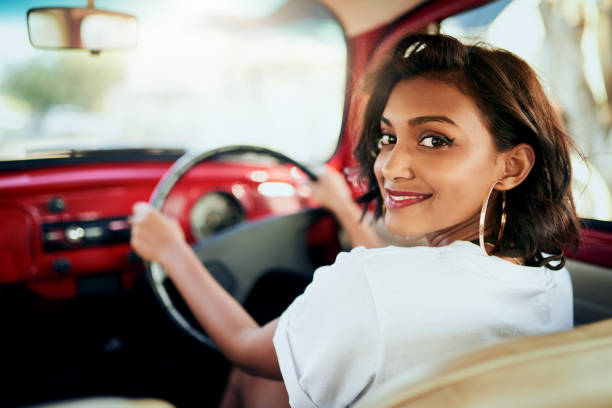
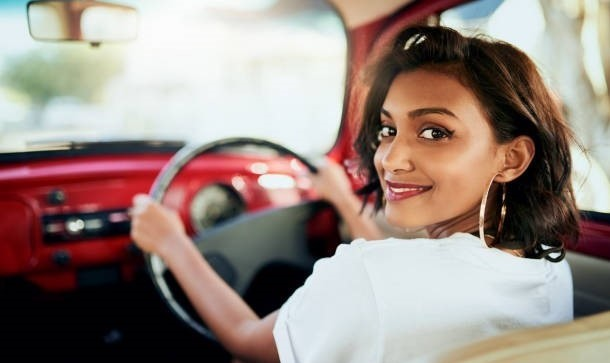
Refactor carousel image styles for responsiveness and cropped images

diff --git a/css/style.css b/css/style.css
@@ -177,26 +177,26 @@
     
     #header-carousel .carousel-item img {
         position: absolute;
-        width: 100%;
-        height: 100%;
-        object-fit: cover;
-    }
-}
-
-/* Styles for larger screens */
-@media (min-width: 769px) {
-    #header-carousel .carousel-item {
-        position: relative;
-        height: 1070px; /* Adjust this value as needed */
-    }
-    
-    #header-carousel .carousel-item img {
-        position: absolute;
         width: 100%; /* Fill the width of the carousel item */
         height: 100%; /* Fill the height of the carousel item */
         object-fit: cover; /* Scale the image to cover the carousel item, cropping if necessary */
     }
 }
+
+/* Styles for larger screens */
+/* @media (min-width: 769px) {
+    #header-carousel .carousel-item {
+        position: relative;
+        height: 1070px;
+    }
+    
+    #header-carousel .carousel-item img {
+        position: absolute;
+        width: 100%;
+        height: 100%;
+        object-fit: cover;
+    }
+} */
 
 .page-header {
     background: linear-gradient(rgba(0, 0, 0, .75), rgba(0, 0, 0, .75)), url(../img/carousel-1.jpg) center center no-repeat;
